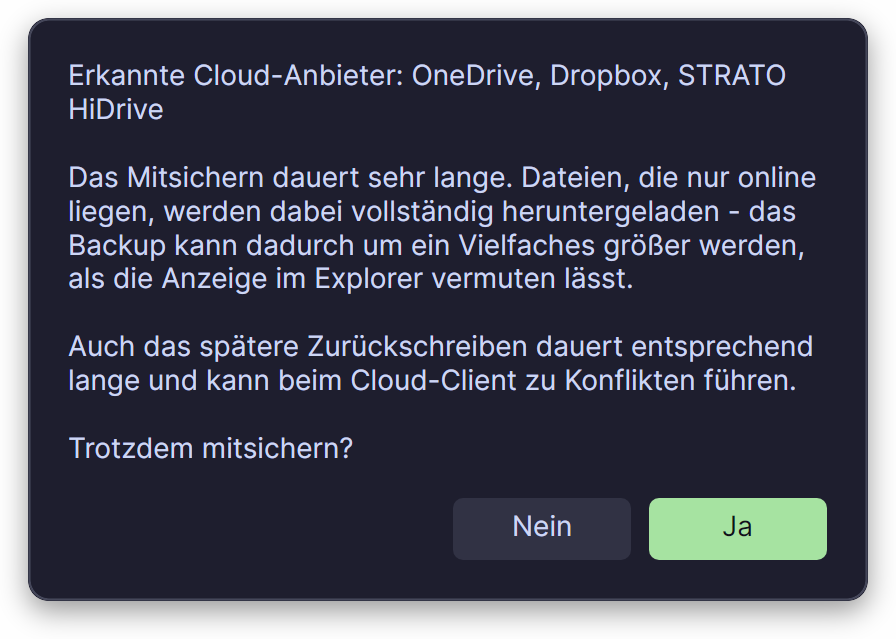
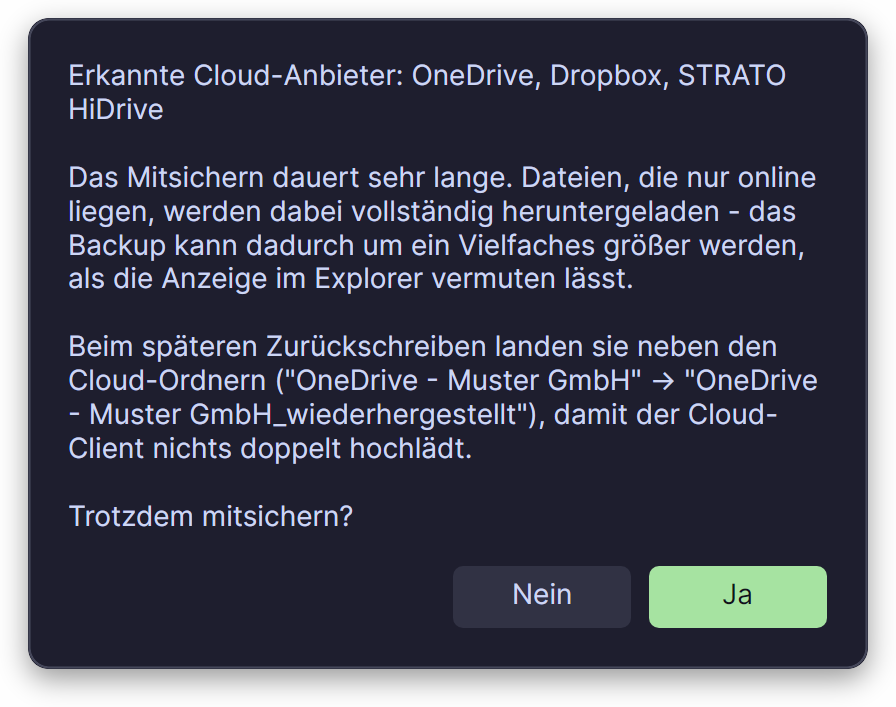
Cloud-Ordner werden neben das Original zurueckgeschrieben
Mit dem Haken "Cloud-Anbieter mit wiederherstellen" landet ein
Cloud-Ordner nicht mehr in seinem alten Platz, sondern daneben:

  C:\Users\<Name>\OneDrive  ->  C:\Users\<Name>\OneDrive_wiederhergestellt
  (ebenso HiDrive, Dropbox, Nextcloud ... und "OneDrive - Firma")

Im echten Cloud-Ordner arbeitet der Cloud-Client. Er hielte jede
zurueckgeschriebene Datei fuer geaendert und luede sie erneut hoch; in
geteilten Ordnern entstuenden Dubletten und Konflikte bei allen Nutzern.

- Der Profil-Lauf schliesst Cloud-Ordner jetzt immer aus; mit Haken
  folgt je Cloud-Ordner ein eigener robocopy-Lauf in <Name>_wiederhergestellt.
  Besteht der Ordner schon (zweite Wiederherstellung), wird er ergaenzt.
- Die Erkennung ueberspringt "..._wiederhergestellt": Der Name passt auf
  das Muster "OneDrive*", die Kopie wird aber nicht synchronisiert. Als
  Cloud-Ordner erkannt, bliebe sie bei der naechsten Sicherung
  standardmaessig draussen - womoeglich die einzige Kopie der Dateien.
- Der Zusatz ist immer deutsch, wie alle Ordnernamen des Tools.
- Die Rueckfragen (Sichern und Wiederherstellen) nennen das Ziel am
  echten Ordnernamen.

Geprueft: 97 Pruefungen (7 neue). GUI live (F7): Wiederherstellen mit
OneDrive-Firmenkonto, Dropbox und HiDrive - vier robocopy-Laeufe, der
Hauptlauf schliesst alle drei aus, jeder landet in <Name>_wiederhergestellt,
keiner schreibt in einen Original-Cloud-Ordner. Funktionstest gesamt 33/33.

Claude-Session: https://claude.ai/code/session_0196PaXCKSmKiwGSNr3Nwqvz

diff --git a/ViewModels/MainWindowViewModel.cs b/ViewModels/MainWindowViewModel.cs
@@ -770,30 +770,38 @@ public partial class MainWindowViewModel : ObservableObject
             ? CloudProviders.Summarize(gefunden)
             : Tr("keine erkannt", "none detected");
 
+        // Am echten Ordnernamen ist leichter zu erkennen, was gleich passiert.
+        var beispielName = gefunden.Count > 0 ? Path.GetFileName(gefunden[0].Path) : "OneDrive";
+        var beispiel = CloudProviders.RestoredFolderName(beispielName);
+
         var frage = IsRestoreMode
             ? Tr($"Cloud-Anbieter in der Sicherung: {liste}\n\n"
-                 + "Das Zurückschreiben von Cloud-Ordnern dauert sehr lange und kann Probleme machen: "
-                 + "Der Cloud-Client hält die zurückgeschriebenen Dateien für geändert und lädt sie "
-                 + "erneut hoch. In geteilten Ordnern entstehen dabei Dubletten und Konflikte.\n\n"
-                 + "Empfehlung: Cloud-Ordner nicht zurückschreiben, sondern den Cloud-Client auf dem "
-                 + "neuen Rechner neu anmelden - er holt die Daten dann selbst.\n\nTrotzdem fortfahren?",
+                 + "Die Cloud-Ordner werden NICHT in die laufenden Cloud-Ordner zurückgeschrieben, sondern "
+                 + $"daneben: \"{beispielName}\" landet in \"{beispiel}\". So lädt der Cloud-Client nichts "
+                 + "doppelt hoch, und in geteilten Ordnern entstehen keine Konflikte. Was noch fehlt, lässt "
+                 + "sich danach in Ruhe vergleichen und von Hand übernehmen.\n\n"
+                 + "Das Zurückschreiben dauert entsprechend lange. Oft reicht es, den Cloud-Client auf dem "
+                 + "neuen Rechner neu anzumelden - er holt die Daten dann selbst.\n\nTrotzdem fortfahren?",
                  $"Cloud providers in the backup: {liste}\n\n"
-                 + "Restoring cloud folders takes a very long time and can cause problems: "
-                 + "the cloud client considers the restored files changed and uploads them again. "
-                 + "In shared folders this creates duplicates and conflicts.\n\n"
-                 + "Recommendation: do not restore cloud folders - sign in to the cloud client on the "
-                 + "new machine instead and let it fetch the data itself.\n\nContinue anyway?")
+                 + "The cloud folders are NOT restored into the live cloud folders but next to them: "
+                 + $"\"{beispielName}\" goes to \"{beispiel}\". This way the cloud client does not upload "
+                 + "anything twice and shared folders do not get conflicts. Anything still missing can be "
+                 + "compared and copied over by hand afterwards.\n\n"
+                 + "Restoring takes correspondingly long. Often it is enough to sign in to the cloud client "
+                 + "on the new machine - it then fetches the data itself.\n\nContinue anyway?")
             : Tr($"Erkannte Cloud-Anbieter: {liste}\n\n"
                  + "Das Mitsichern dauert sehr lange. Dateien, die nur online liegen, werden dabei "
                  + "vollständig heruntergeladen - das Backup kann dadurch um ein Vielfaches größer "
                  + "werden, als die Anzeige im Explorer vermuten lässt.\n\n"
-                 + "Auch das spätere Zurückschreiben dauert entsprechend lange und kann beim "
-                 + "Cloud-Client zu Konflikten führen.\n\nTrotzdem mitsichern?",
+                 + "Beim späteren Zurückschreiben landen sie neben den Cloud-Ordnern "
+                 + $"(\"{beispielName}\" -> \"{beispiel}\"), damit der Cloud-Client nichts doppelt "
+                 + "hochlädt.\n\nTrotzdem mitsichern?",
                  $"Detected cloud providers: {liste}\n\n"
                  + "Including them takes a very long time. Files that exist only online are downloaded "
                  + "in full - the backup can therefore become many times larger than Explorer suggests.\n\n"
-                 + "Restoring them later takes just as long and can cause conflicts in the cloud "
-                 + "client.\n\nInclude them anyway?");
+                 + "When restored later, they go next to the cloud folders "
+                 + $"(\"{beispielName}\" -> \"{beispiel}\"), so the cloud client does not upload "
+                 + "anything twice.\n\nInclude them anyway?");
 
         var weiter = await ShowYesNo(Tr("Cloud-Ordner", "Cloud folders"), frage);
         if (!weiter)

diff --git a/Services/BackupService.cs b/Services/BackupService.cs
@@ -119,17 +119,57 @@ public sealed class BackupService
         //
         // Ausgeschlossen wird relativ zum SICHERUNGSORDNER, nicht zum Profil:
         // /XD vergleicht gegen die Quelle.
-        foreach (var ex in GetProfileExcludes(backupSourceDir, IncludeAppData, IncludeCloud))
+        //
+        // Cloud-Ordner bleiben in diesem Lauf IMMER draussen - auch mit Haken.
+        // Mit Haken folgen sie danach einzeln, aber nicht an ihren alten Platz.
+        foreach (var ex in GetProfileExcludes(backupSourceDir, IncludeAppData, includeCloud: false))
             if (Directory.Exists(ex)) { args.Add("/XD"); args.Add(Quote(ex)); }
 
         if (IncludeAppData)
             _log(Loc.Tr("[INFO] AppData wird mit wiederhergestellt.", "[INFO] AppData is included in the restore."));
-        if (IncludeCloud)
-            _log(Loc.Tr("[INFO] Cloud-Ordner werden mit wiederhergestellt.", "[INFO] Cloud folders are included in the restore."));
 
         var code = await _runner.RunRobocopyAsync(string.Join(" ", args), _log, OnFilesProgress);
         if (_cancel.IsCancelled) return;
         _log(code < 8 ? Loc.Tr("[ERFOLG] Benutzerprofil wiederhergestellt.", "[SUCCESS] User profile restored.") : Loc.Tr($"[FEHLER] Robocopy Fehlercode: {code}", $"[ERROR] Robocopy error code: {code}"));
+
+        if (IncludeCloud) await RestoreCloudFolders(backupSourceDir, destDir);
+    }
+
+    /// <summary>
+    /// Schreibt die Cloud-Ordner der Sicherung zurueck - jeden NEBEN seinen
+    /// alten Platz: "OneDrive" landet in "OneDrive_wiederhergestellt".
+    /// Warum, steht bei <see cref="CloudProviders.RestoredFolderName"/>.
+    /// </summary>
+    private async Task RestoreCloudFolders(string backupSourceDir, string destDir)
+    {
+        var ordner = CloudProviders.Detect(backupSourceDir);
+        if (ordner.Count == 0)
+        {
+            _log(Loc.Tr("[INFO] Die Sicherung enthält keine Cloud-Ordner.", "[INFO] The backup contains no cloud folders."));
+            return;
+        }
+
+        foreach (var cloud in ordner)
+        {
+            if (_cancel.IsCancelled) return;
+            var name = Path.GetFileName(cloud.Path);
+            var ziel = Path.Combine(destDir, CloudProviders.RestoredFolderName(name));
+
+            _log(Loc.Tr($"[INFO] {cloud.Provider}: \"{name}\" wird nach \"{ziel}\" zurückgeschrieben - nicht in den laufenden Cloud-Ordner, damit der Cloud-Client nichts doppelt hochlädt.",
+                        $"[INFO] {cloud.Provider}: \"{name}\" is restored to \"{ziel}\" - not into the live cloud folder, so the cloud client does not upload anything twice."));
+            if (Directory.Exists(ziel))
+                _log(Loc.Tr("[INFO] Der Ordner besteht schon (frühere Wiederherstellung) und wird ergänzt.",
+                            "[INFO] The folder already exists (earlier restore) and is updated."));
+
+            var args = new List<string> { Quote(cloud.Path), Quote(ziel), "/E", "/ZB", "/COPYALL", "/R:1", "/W:1", "/MT:32" };
+            if (_cancel.FastMode) args.AddRange(new[] { "/NP", "/NDL" });
+
+            var code = await _runner.RunRobocopyAsync(string.Join(" ", args), _log, OnFilesProgress);
+            if (_cancel.IsCancelled) return;
+            _log(code < 8
+                ? Loc.Tr($"[ERFOLG] {cloud.Provider} wiederhergestellt nach: {ziel}", $"[SUCCESS] {cloud.Provider} restored to: {ziel}")
+                : Loc.Tr($"[FEHLER] {cloud.Provider}: Robocopy Fehlercode {code}", $"[ERROR] {cloud.Provider}: Robocopy error code {code}"));
+        }
     }
 
     // ------------------------------------------------------------ Browser-Profile

diff --git a/tests/DaSiTests/Program.cs b/tests/DaSiTests/Program.cs
@@ -247,6 +247,31 @@ internal static class Program
         Check("ein leerer Pfad liefert eine leere Liste",
             CloudProviders.Detect("").Count == 0);
 
+        Console.WriteLine("\n== Cloud-Ordner zurueckschreiben: neben den Original-Ordner ==");
+        Check("OneDrive -> OneDrive_wiederhergestellt",
+            CloudProviders.RestoredFolderName("OneDrive") == "OneDrive_wiederhergestellt");
+        Check("Firmenkonto behaelt seinen vollen Namen",
+            CloudProviders.RestoredFolderName("OneDrive - Muster GmbH") == "OneDrive - Muster GmbH_wiederhergestellt");
+        Check("HiDrive -> HiDrive_wiederhergestellt",
+            CloudProviders.RestoredFolderName("HiDrive") == "HiDrive_wiederhergestellt");
+
+        // Nach einer Wiederherstellung liegen Original und Kopie nebeneinander.
+        var nachher = Path.Combine(root, "ProfilNachWiederherstellung");
+        foreach (var d in new[] { "OneDrive", "OneDrive_wiederhergestellt", "HiDrive_WIEDERHERGESTELLT", "Dropbox_wiederhergestellt", "Dokumente" })
+            Directory.CreateDirectory(Path.Combine(nachher, d));
+        var nachherClouds = CloudProviders.Detect(nachher).Select(c => Path.GetFileName(c.Path)).ToArray();
+        Check("die wiederhergestellte Kopie gilt NICHT als Cloud-Ordner",
+            !nachherClouds.Any(CloudProviders.IsRestoredCopy), string.Join(", ", nachherClouds));
+        Check("Gross-/Kleinschreibung des Zusatzes spielt keine Rolle",
+            !nachherClouds.Contains("HiDrive_WIEDERHERGESTELLT"));
+        Check("der echte Cloud-Ordner daneben wird weiter erkannt",
+            nachherClouds.SequenceEqual(new[] { "OneDrive" }), string.Join(", ", nachherClouds));
+        var nachherAus = ProfileExcludes.Build(nachher);
+        Check("naechste Sicherung: Kopie wird mitgesichert, nur der Cloud-Ordner bleibt draussen",
+            nachherAus.Contains(Path.Combine(nachher, "OneDrive"))
+            && !nachherAus.Contains(Path.Combine(nachher, "OneDrive_wiederhergestellt"))
+            && !nachherAus.Contains(Path.Combine(nachher, "Dropbox_wiederhergestellt")));
+
         // ================================================================
         // Was beim Profil-Backup ausgelassen wird
         // ================================================================

diff --git a/Services/CloudProviders.cs b/Services/CloudProviders.cs
@@ -88,6 +88,12 @@ public static class CloudProviders
             foreach (var name in unterordner)
             {
                 if (schonGemeldet.Contains(name)) continue;
+                // "OneDrive_wiederhergestellt" passt auf das Muster "OneDrive*",
+                // ist aber eine gewoehnliche, NICHT synchronisierte Kopie. Als
+                // Cloud-Ordner erkannt, bliebe sie bei der naechsten Sicherung
+                // standardmaessig draussen - und mit ihr womoeglich die einzige
+                // Kopie dieser Dateien.
+                if (IsRestoredCopy(name)) continue;
                 if (!muster.Any(m => Matches(name, m))) continue;
 
                 schonGemeldet.Add(name);
@@ -124,4 +130,30 @@ public static class CloudProviders
     /// </summary>
     public static string Summarize(IEnumerable<CloudFolder> folders)
         => string.Join(", ", folders.Select(f => f.Provider).Distinct());
+
+    // ------------------------------------------------------------ Zurueckschreiben
+
+    /// <summary>
+    /// Zusatz fuer zurueckgeschriebene Cloud-Ordner. Bewusst immer deutsch,
+    /// wie alle Ordnernamen, die das Tool anlegt ("Benutzerprofil",
+    /// "Hintergrundbild"): Die Sprache der Oberflaeche soll nicht bestimmen,
+    /// wie ein Ordner auf der Platte heisst.
+    /// </summary>
+    public const string RestoredSuffix = "_wiederhergestellt";
+
+    /// <summary>
+    /// Name, unter dem ein Cloud-Ordner zurueckgeschrieben wird:
+    /// "OneDrive" -> "OneDrive_wiederhergestellt".
+    ///
+    /// Warum nicht an den Originalplatz: Dort arbeitet der Cloud-Client. Er
+    /// hielte jede zurueckgeschriebene Datei fuer geaendert und luede sie
+    /// erneut hoch - in geteilten Ordnern entstuenden Dubletten und
+    /// Konflikte bei allen, die den Ordner nutzen. Daneben abgelegt laesst
+    /// sich in Ruhe vergleichen und von Hand uebernehmen, was fehlt.
+    /// </summary>
+    public static string RestoredFolderName(string folderName) => folderName + RestoredSuffix;
+
+    /// <summary>true fuer einen Ordner, den das Tool beim Zurueckschreiben angelegt hat.</summary>
+    public static bool IsRestoredCopy(string folderName)
+        => folderName.EndsWith(RestoredSuffix, StringComparison.OrdinalIgnoreCase);
 }

diff --git a/README.md b/README.md
@@ -80,6 +80,21 @@ das Profil gewählt ist.
 Beide Schalter wirken in beide Richtungen: Ohne Haken wird AppData bzw. ein
 Cloud-Ordner auch dann nicht zurückgeschrieben, wenn die Sicherung ihn enthält.
 
+**Cloud-Ordner landen beim Zurückschreiben neben dem Original**, nicht darin:
+
+| In der Sicherung | Wird zurückgeschrieben nach |
+| --- | --- |
+| `C:\Users\<Name>\OneDrive` | `C:\Users\<Name>\OneDrive_wiederhergestellt` |
+| `C:\Users\<Name>\OneDrive - Muster GmbH` | `C:\Users\<Name>\OneDrive - Muster GmbH_wiederhergestellt` |
+| `C:\Users\<Name>\HiDrive` | `C:\Users\<Name>\HiDrive_wiederhergestellt` |
+
+Im echten Cloud-Ordner arbeitet der Cloud-Client: Er hielte jede zurückgeschriebene
+Datei für geändert und lüde sie erneut hoch, in geteilten Ordnern entstünden
+Dubletten und Konflikte. Daneben abgelegt lässt sich in Ruhe vergleichen und von
+Hand übernehmen, was noch fehlt. Bei einer späteren Sicherung gilt eine solche
+`…_wiederhergestellt`-Kopie als gewöhnlicher Ordner und wird mitgesichert — sie wird
+ja nicht synchronisiert.
+
 <div align="center">
 <img src="docs/images/cloud-rueckfrage.png" alt="Rückfrage mit den erkannten Cloud-Anbietern" width="440">
 </div>

diff --git a/CHANGELOG.md b/CHANGELOG.md
@@ -19,6 +19,16 @@ die Versionierung folgt [Semantic Versioning](https://semver.org/lang/de/).
   angemeldet als der des gesicherten Profils, wird kein Foto gemacht — es zeigte
   den falschen Desktop.
 
+### Geändert
+
+- **Cloud-Ordner werden neben das Original zurückgeschrieben.** Mit dem Haken
+  *Cloud-Anbieter mit wiederherstellen* landet zum Beispiel `OneDrive` jetzt in
+  `OneDrive_wiederhergestellt` (ebenso `HiDrive_wiederhergestellt`,
+  `Dropbox_wiederhergestellt` …) statt im laufenden Cloud-Ordner. Dort hielte der
+  Cloud-Client jede Datei für geändert und lüde sie erneut hoch, in geteilten Ordnern
+  mit Dubletten und Konflikten. Solche Kopien gelten bei späteren Sicherungen als
+  gewöhnliche Ordner und werden mitgesichert.
+
 ---
 
 ## [1.1.0] - 2026-11-05
